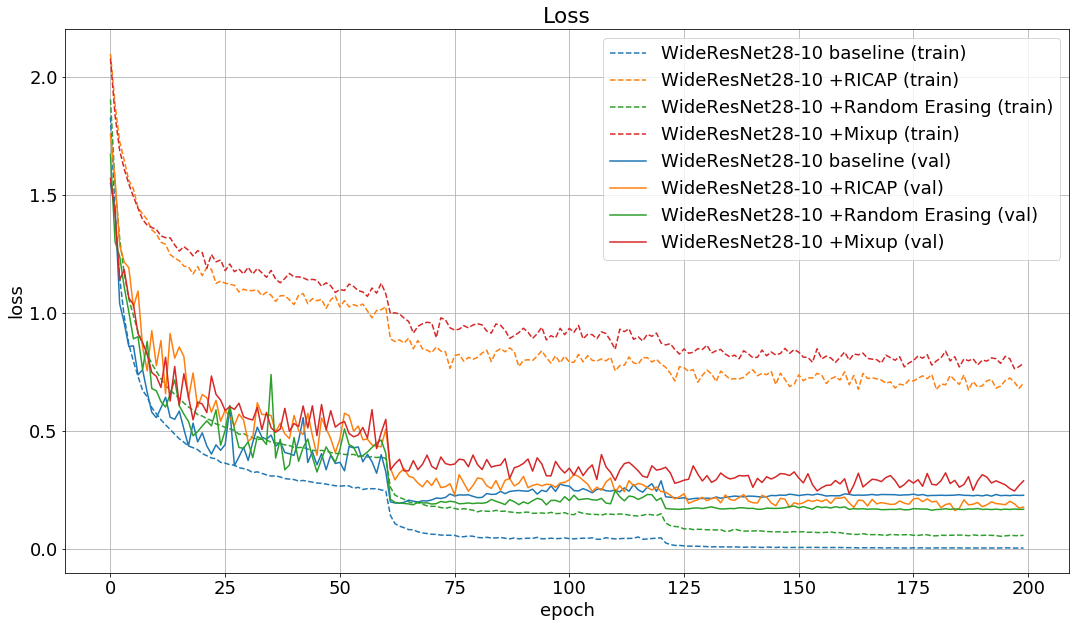
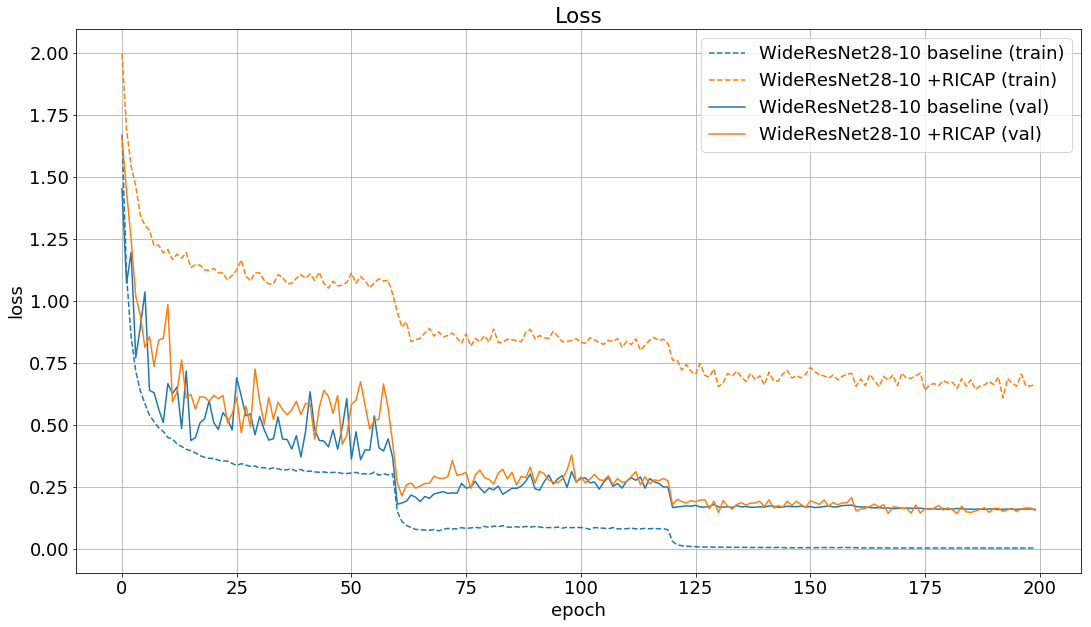
Fix wrong implementation of WideResNet and add new results

diff --git a/train.py b/train.py
@@ -10,6 +10,7 @@ import torch
 import torch.backends.cudnn as cudnn
 import torch.nn as nn
 import torch.optim as optim
+from torch.optim import lr_scheduler
 import torchvision.transforms as transforms
 import torchvision.datasets as datasets
 
@@ -39,6 +40,13 @@ def parse_args():
     parser.add_argument('--mixup', default=False, type=str2bool,
                         help='use Mixup')
     parser.add_argument('--mixup-alpha', default=1.0, type=float)
+    parser.add_argument('--epochs', default=200, type=int)
+    parser.add_argument('--lr', '--learning-rate', default=1e-1, type=float)
+    parser.add_argument('--milestones', default='60,120,160', type=str)
+    parser.add_argument('--gamma', default=0.2, type=float)
+    parser.add_argument('--momentum', default=0.9, type=float)
+    parser.add_argument('--weight-decay', default=5e-4, type=float)
+    parser.add_argument('--nesterov', default=False, type=str2bool)
 
     args = parser.parse_args()
 
@@ -289,30 +297,33 @@ def main():
     model = WideResNet(args.depth, args.width, num_classes=num_classes)
     model = model.cuda()
 
-    optimizer = optim.SGD(filter(lambda p: p.requires_grad, model.parameters()), lr=0.1,
-            momentum=0.9, weight_decay=1e-4)
+    optimizer = optim.SGD(filter(lambda p: p.requires_grad, model.parameters()), lr=args.lr,
+            momentum=args.momentum, weight_decay=args.weight_decay)
+
+    scheduler = lr_scheduler.MultiStepLR(optimizer,
+            milestones=[int(e) for e in args.milestones.split(',')], gamma=args.gamma)
 
     log = pd.DataFrame(index=[], columns=[
         'epoch', 'lr', 'loss', 'acc', 'val_loss', 'val_acc'
     ])
 
     best_acc = 0
-    for epoch in range(200):
-        print('Epoch [%d/%d]' %(epoch, 200))
+    for epoch in range(args.epochs):
+        print('Epoch [%d/%d]' %(epoch+1, args.epochs))
+
+        scheduler.step()
 
         # train for one epoch
         train_log = train(args, train_loader, model, criterion, optimizer, epoch)
         # evaluate on validation set
         val_log = validate(args, test_loader, model, criterion)
 
-        lr = adjust_learning_rate(optimizer, epoch)
-
         print('loss %.4f - acc %.4f - val_loss %.4f - val_acc %.4f'
             %(train_log['loss'], train_log['acc'], val_log['loss'], val_log['acc']))
 
         tmp = pd.Series([
             epoch,
-            lr,
+            scheduler.get_lr()[0],
             train_log['loss'],
             train_log['acc'],
             val_log['loss'],
@@ -326,8 +337,6 @@ def main():
             torch.save(model.state_dict(), 'models/%s/model.pth' %args.name)
             best_acc = val_log['acc']
             print("=> saved best model")
-
-    print("best val_acc: %f" %best_acc)            
 
 
 if __name__ == '__main__':

diff --git a/wide_resnet.py b/wide_resnet.py
@@ -1,3 +1,5 @@
+import math
+
 import torch
 import torch.nn as nn
 
@@ -5,12 +7,13 @@ import torch.nn as nn
 def conv3x3(in_planes, out_planes, stride=1):
     """3x3 convolution with padding"""
     return nn.Conv2d(in_planes, out_planes, kernel_size=3, stride=stride,
-                     padding=1)
+                    padding=1, bias=False)
 
 
 def conv1x1(in_planes, out_planes, stride=1):
     """1x1 convolution"""
-    return nn.Conv2d(in_planes, out_planes, kernel_size=1, stride=stride)
+    return nn.Conv2d(in_planes, out_planes, kernel_size=1, stride=stride,
+                    bias=False)
 
 
 class BasicBlock(nn.Module):
@@ -23,19 +26,20 @@ class BasicBlock(nn.Module):
         self.conv2 = conv3x3(planes, planes)
         self.relu = nn.ReLU(inplace=True)
         if stride != 1 or inplanes != planes:
-            self.residual = conv1x1(inplanes, planes, stride)
+            self.shortcut = conv1x1(inplanes, planes, stride)
             self.use_conv1x1 = True
         else:
             self.use_conv1x1 = False
 
     def forward(self, x):
-        if self.use_conv1x1:
-            residual = self.residual(x)
-        else:
-            residual = x
-
         out = self.bn1(x)
         out = self.relu(out)
+
+        if self.use_conv1x1:
+            shortcut = self.shortcut(out)
+        else:
+            shortcut = x
+
         out = self.conv1(out)
 
         out = self.bn2(out)
@@ -43,7 +47,7 @@ class BasicBlock(nn.Module):
         out = self.dropout(out)
         out = self.conv2(out)
 
-        out += residual
+        out += shortcut
 
         return out
 
@@ -64,12 +68,15 @@ class WideResNet(nn.Module):
         self.avgpool = nn.AdaptiveAvgPool2d(1)
         self.fc = nn.Linear(64*width, num_classes)
 
+        for m in self.modules():
+            if isinstance(m, nn.Conv2d):
+                m.weight.data = nn.init.kaiming_normal_(m.weight.data, mode='fan_out', nonlinearity='relu')
+
     def _make_layer(self, planes, blocks, dropout, stride=1):
         layers = []
-        layers.append(BasicBlock(self.inplanes, planes, dropout, stride))
-        self.inplanes = planes
-        for _ in range(1, blocks):
-            layers.append(BasicBlock(self.inplanes, planes, dropout, stride))
+        for i in range(blocks):
+            layers.append(BasicBlock(self.inplanes, planes, dropout, stride if i == 0 else 1))
+            self.inplanes = planes
 
         return nn.Sequential(*layers)
 

diff --git a/utils.py b/utils.py
@@ -37,20 +37,6 @@ class AverageMeter(object):
         self.avg = self.sum / self.count
 
 
-def adjust_learning_rate(optimizer, epoch):
-    lr = 0.1
-    if epoch >= 60:
-        lr = 0.02
-    if epoch >= 120:
-        lr = 0.004
-    if epoch >= 160:
-        lr = 0.0008
-    for param_group in optimizer.param_groups:
-        param_group['lr'] = lr
-
-    return lr
-
-
 def accuracy(output, target, topk=(1,)):
     """Computes the accuracy over the k top predictions for the specified values of k"""
     with torch.no_grad():

diff --git a/README.md b/README.md
@@ -27,16 +27,12 @@ python train.py --dataset cifar10 --mixup True
 ```
 
 ## Results
-| Model                                           |   Error rate (%)  | Loss |
-|:------------------------------------------------|:-----------------:|:----:|
-| WideResNet28-10 baseline                        |              4.70 | 0.193|
-| WideResNet28-10 +RICAP                          |              3.94 | 0.162|
-| WideResNet28-10 +Random Erasing                 |              4.36 | 0.163|
-| WideResNet28-10 +Mixup                          |              4.09 | 0.232|
-| WideResNet28-10 baseline (original paper)       |              3.89 |     -|
-| WideResNet28-10 +RICAP (original paper)         |              2.85 |     -|
-| WideResNet28-10 +Random Erasing (original paper)|              4.65 |     -|
-| WideResNet28-10 +Mixup (original paper)         |              3.02 |     -|
+| Model                                           | Error rate | Loss | Error rate (paper) |
+|:------------------------------------------------|:----------:|:----:|:------------------:|
+| WideResNet28-10 baseline                        |        3.82| 0.158|                3.89|
+| WideResNet28-10 +RICAP                          |        2.82| 0.141|                2.85|
+| WideResNet28-10 +Random Erasing                 |            |      |                4.65|
+| WideResNet28-10 +Mixup                          |            |      |                3.02|
 
 Learning curves of loss and accuracy.
 
